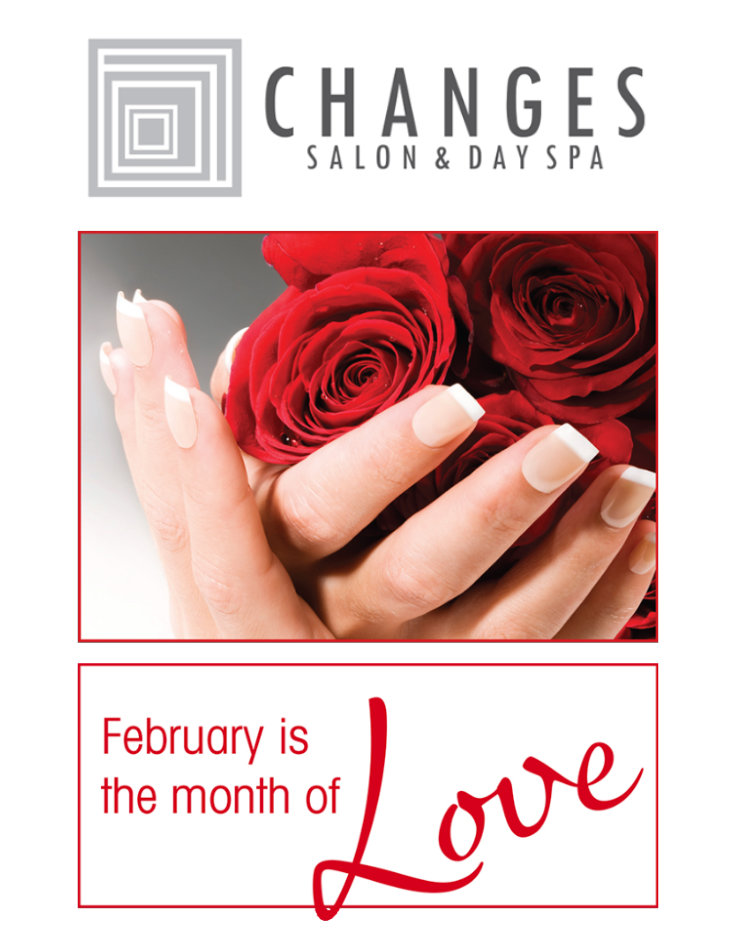
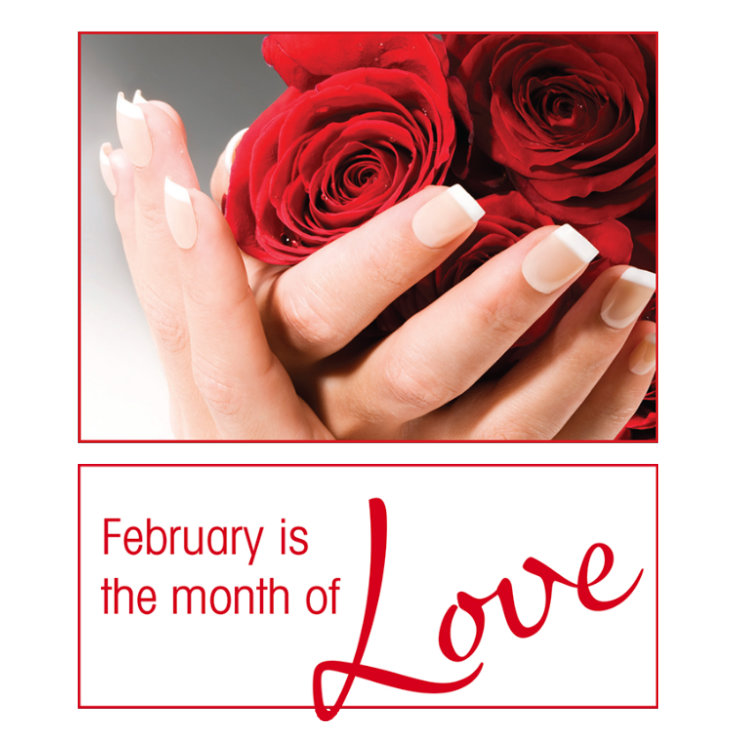
Updated promo and team pages.

diff --git a/team.html b/team.html
@@ -172,7 +172,7 @@
                     <!-- Content -->
                     <!-- InstanceBeginEditable name="EditRegion2" -->
                     <article class="box post">
-                        <a href="#" class="image featured"><img src="images/team.jpg" alt="" /></a>
+                        <a href="#" class="image featured"><img src="/assets/img/team-201701.jpg" alt="Changes Salon Team" /></a>
 
                         <header>
                             <h2>Our Team</h2>

diff --git a/specials/201702-love.php b/specials/201702-love.php
@@ -46,7 +46,7 @@
                     </div><!-- /col -->
 
                     <div class="col-xs-12 col-sm-12 col-md-6 col-lg-5">
-                        <div class="space-bottom-40"></div>
+                        <div class="space-bottom-20"></div>
                         <div class="panel panel-danger">
                             <div class="panel-heading">
                                 <div class="text-center text-bold" style="font-size: 18px;">February is the month of Love</div>
